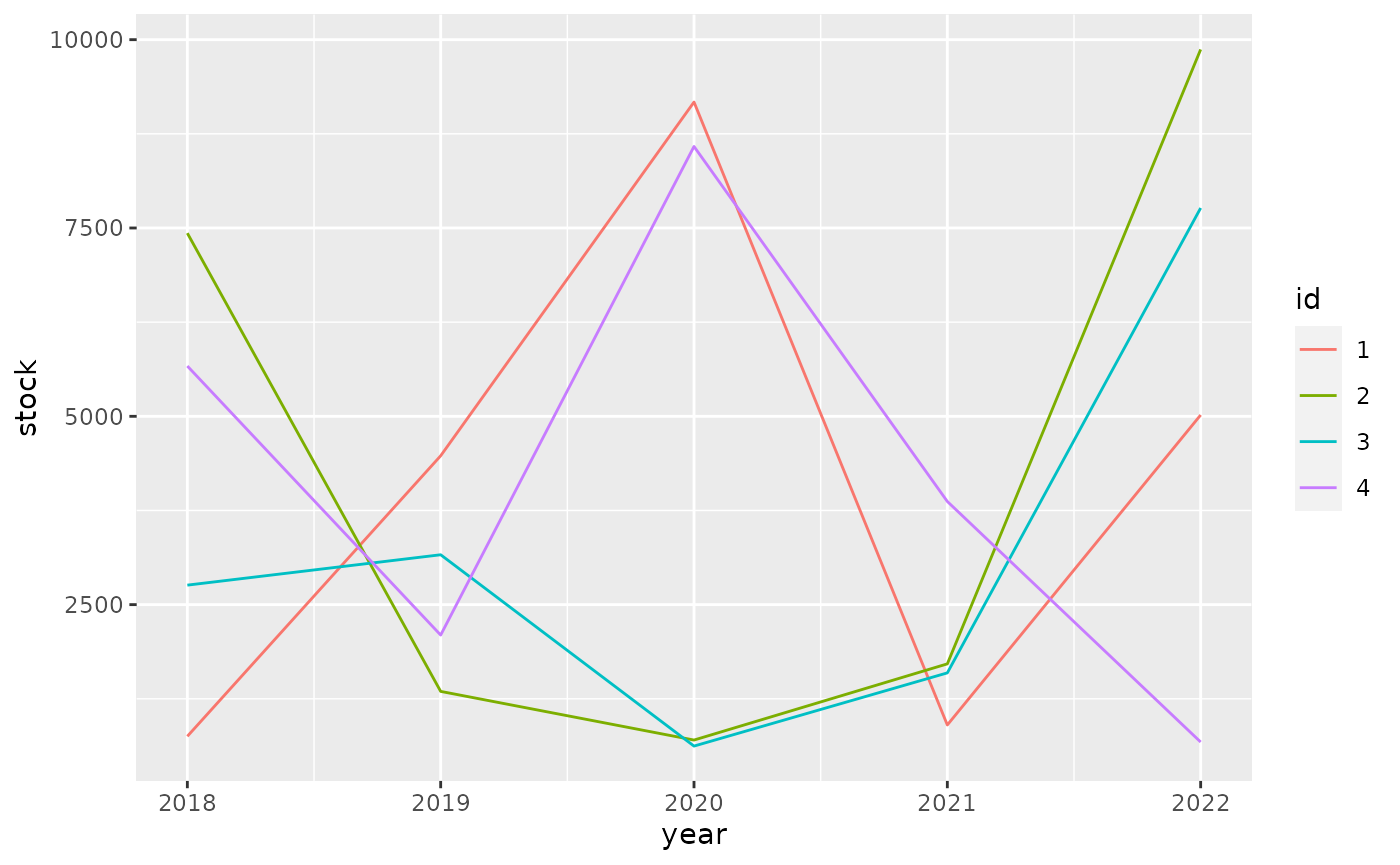
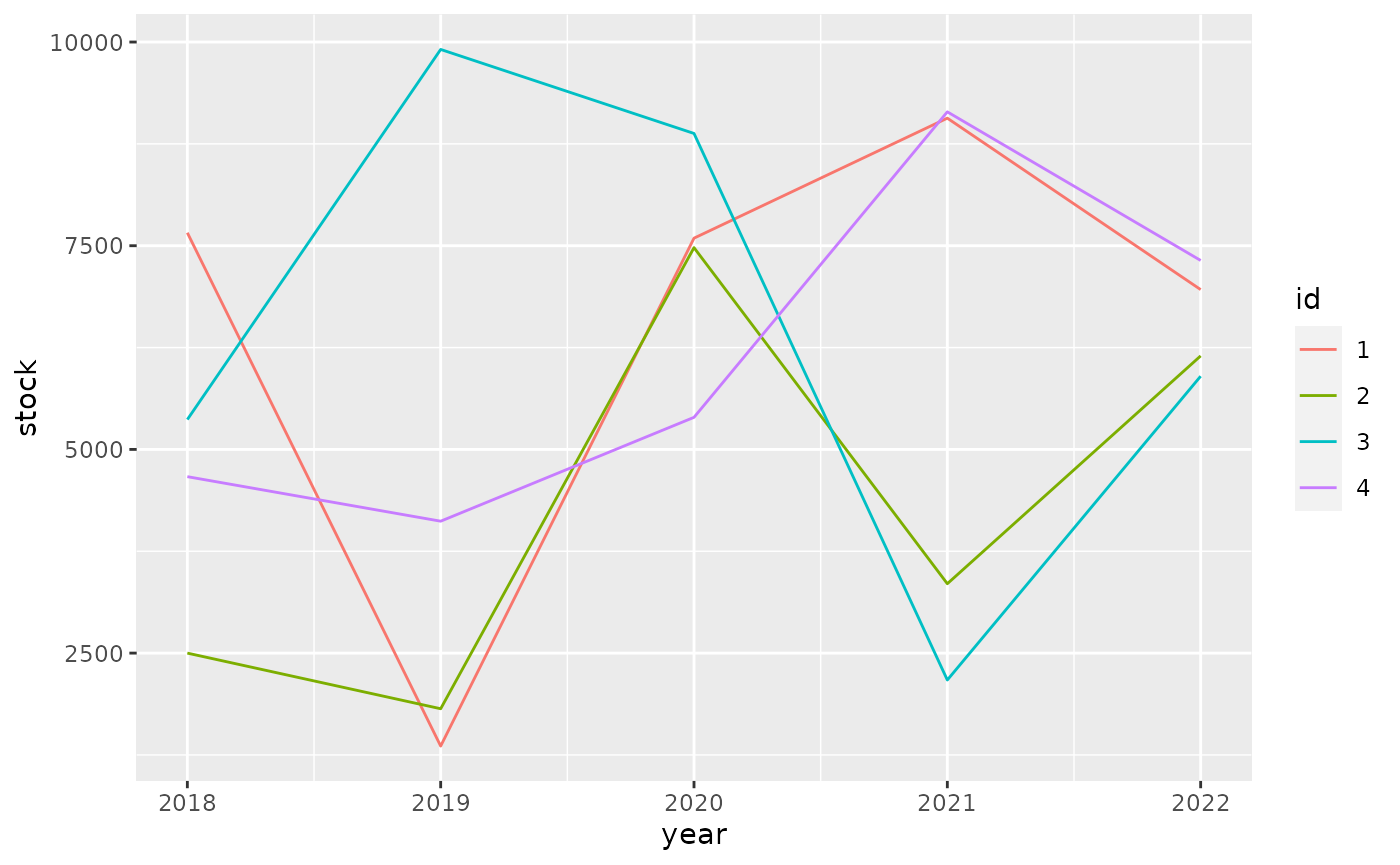
Built site for tibble: 3.1.4.9001@2564271

diff --git a/dev/articles/formats.html b/dev/articles/formats.html
@@ -227,10 +227,10 @@
 <span class="co">#&gt; # A tibble: 4 × 6</span>
 <span class="co">#&gt;   id       `2018`    `2019`    `2020`    `2021`    `2022`</span>
 <span class="co">#&gt;   &lt;fct&gt; &lt;dbl:fmt&gt; &lt;dbl:fmt&gt; &lt;dbl:fmt&gt; &lt;dbl:fmt&gt; &lt;dbl:fmt&gt;</span>
-<span class="co">#&gt; 1 1       $751.98 $4,476.01 $9,171.82   $902.53 $5,017.63</span>
-<span class="co">#&gt; 2 2     $7,431.66 $1,348.27   $702.32 $1,713.76 $9,870.26</span>
-<span class="co">#&gt; 3 3     $2,758.84 $3,162.12   $622.26 $1,593.96 $7,765.45</span>
-<span class="co">#&gt; 4 4     $5,667.28 $2,096.22 $8,582.30 $3,869.53   $676.16</span></code></pre></div>
+<span class="co">#&gt; 1 1     $7,659.49 $1,358.80 $7,592.79 $9,065.66 $6,961.54</span>
+<span class="co">#&gt; 2 2     $2,499.91 $1,817.09 $7,476.52 $3,351.64 $6,147.94</span>
+<span class="co">#&gt; 3 3     $5,366.46 $9,909.12 $8,877.78 $2,169.89 $5,898.66</span>
+<span class="co">#&gt; 4 4     $4,665.61 $4,118.93 $5,393.71 $9,143.26 $7,319.25</span></code></pre></div>
 <p>For ggplot2 we need to do <a href="https://github.com/tidyverse/ggplot2/pull/4065" class="external-link">some work</a> to show apply the formatting to the scales.</p>
 <div class="sourceCode" id="cb6"><pre class="downlit sourceCode r">
 <code class="sourceCode R"><span class="kw"><a href="https://rdrr.io/r/base/library.html" class="external-link">library</a></span><span class="op">(</span><span class="va"><a href="https://ggplot2.tidyverse.org" class="external-link">ggplot2</a></span><span class="op">)</span>
@@ -241,10 +241,10 @@
   <span class="fu"><a href="https://ggplot2.tidyverse.org/reference/geom_path.html" class="external-link">geom_line</a></span><span class="op">(</span><span class="op">)</span></code></pre></div>
 <p><img src="formats_files/figure-html/unnamed-chunk-7-1.png" width="700"></p>
 <p>It pays off to specify formatting very early in the process. The diagram below shows the principal stages of data analysis and exploration from “R for data science”.</p>
-<div id="htmlwidget-8b241b0ab7d9c6c00121" style="width:700px;height:432.632880098888px;" class="DiagrammeR html-widget"></div>
-<script type="application/json" data-for="htmlwidget-8b241b0ab7d9c6c00121">{"x":{"diagram":"graph TD\n  Import --> Tidy\n  Tidy --> Transform\n  Transform --> Visualize\n  Visualize --> Communicate\n  Visualize --> Model\n  Model -.-> Transform"},"evals":[],"jsHooks":[]}</script><p>The subsequent diagram adds data formats, communication options, and explicit data formatting. The original r4ds transitions are highlighted in bold. There are two principal options where to apply formatting for results: right before communicating them, or right after importing.</p>
-<div id="htmlwidget-e7f6f27b4f785ecf266c" style="width:700px;height:432.632880098888px;" class="DiagrammeR html-widget"></div>
-<script type="application/json" data-for="htmlwidget-e7f6f27b4f785ecf266c">{"x":{"diagram":"graph TD\n  .csv --> Import\n  API --> Import\n  DBI --> Import\n  dbplyr --> Import\n  Import -.-> Format[Format for analysis]\n  Format -.-> Tidy\n\n  subgraph r4ds\n  Import ==> Tidy\n  Tidy ==> Transform\n  Transform ==> Visualize\n  Visualize ==> Model\n  Model -.-> Transform\n  Visualize ==> Communicate\n  end\n\n  Visualize -.-> FormatComm[Format for communication]\n  FormatComm -.-> Communicate\n\n  FormatComm -- Apply formatting early --> Format\n\n  dbplyr -.-> Tidy\n  dbplyr -.-> Transform\n  dbplyr -.-> Visualize\n\n  Communicate --> gt\n  Communicate --> ggplot2\n  Communicate --> DT\n  Communicate --> plotly"},"evals":[],"jsHooks":[]}</script><p>Applying formatting early in the process gives the added benefit of showing the data in a useful format during the “Tidy”, “Transform”, and “Visualize” stages. For this to be useful, we need to ensure that the formatting options applied early:</p>
+<div id="htmlwidget-16630a2a967cca61a7e0" style="width:700px;height:432.632880098888px;" class="DiagrammeR html-widget"></div>
+<script type="application/json" data-for="htmlwidget-16630a2a967cca61a7e0">{"x":{"diagram":"graph TD\n  Import --> Tidy\n  Tidy --> Transform\n  Transform --> Visualize\n  Visualize --> Communicate\n  Visualize --> Model\n  Model -.-> Transform"},"evals":[],"jsHooks":[]}</script><p>The subsequent diagram adds data formats, communication options, and explicit data formatting. The original r4ds transitions are highlighted in bold. There are two principal options where to apply formatting for results: right before communicating them, or right after importing.</p>
+<div id="htmlwidget-477eeae9efa794d75cd5" style="width:700px;height:432.632880098888px;" class="DiagrammeR html-widget"></div>
+<script type="application/json" data-for="htmlwidget-477eeae9efa794d75cd5">{"x":{"diagram":"graph TD\n  .csv --> Import\n  API --> Import\n  DBI --> Import\n  dbplyr --> Import\n  Import -.-> Format[Format for analysis]\n  Format -.-> Tidy\n\n  subgraph r4ds\n  Import ==> Tidy\n  Tidy ==> Transform\n  Transform ==> Visualize\n  Visualize ==> Model\n  Model -.-> Transform\n  Visualize ==> Communicate\n  end\n\n  Visualize -.-> FormatComm[Format for communication]\n  FormatComm -.-> Communicate\n\n  FormatComm -- Apply formatting early --> Format\n\n  dbplyr -.-> Tidy\n  dbplyr -.-> Transform\n  dbplyr -.-> Visualize\n\n  Communicate --> gt\n  Communicate --> ggplot2\n  Communicate --> DT\n  Communicate --> plotly"},"evals":[],"jsHooks":[]}</script><p>Applying formatting early in the process gives the added benefit of showing the data in a useful format during the “Tidy”, “Transform”, and “Visualize” stages. For this to be useful, we need to ensure that the formatting options applied early:</p>
 <ul>
 <li>give a good user experience for analysis
 <ul>

diff --git a/dev/articles/types.html b/dev/articles/types.html
@@ -358,7 +358,7 @@
 #&gt; $ factor        &lt;fct&gt; A
 #&gt; $ ordered       &lt;ord&gt; a
 #&gt; $ Date          &lt;date&gt; 2021-09-26
-#&gt; $ POSIXt        &lt;dttm&gt; 2021-09-26 18:41:52
+#&gt; $ POSIXt        &lt;dttm&gt; 2021-09-26 18:48:21
 #&gt; $ difftime      &lt;drtn&gt; 1 secs
 #&gt; $ hms           &lt;time&gt; 00:00:01
 #&gt; $ integer64     &lt;int64&gt; 10000000000
@@ -394,7 +394,7 @@
 <span class="co">#&gt;             "sym"</span>
 <span class="co">#&gt;         }, typeof(x))</span>
 <span class="co">#&gt; }</span>
-<span class="co">#&gt; &lt;bytecode: 0x55cbcdd98be0&gt;</span>
+<span class="co">#&gt; &lt;bytecode: 0x55dae7c6ae70&gt;</span>
 <span class="co">#&gt; &lt;environment: namespace:pillar&gt;</span></code></pre></div>
 </div>
   </div>
